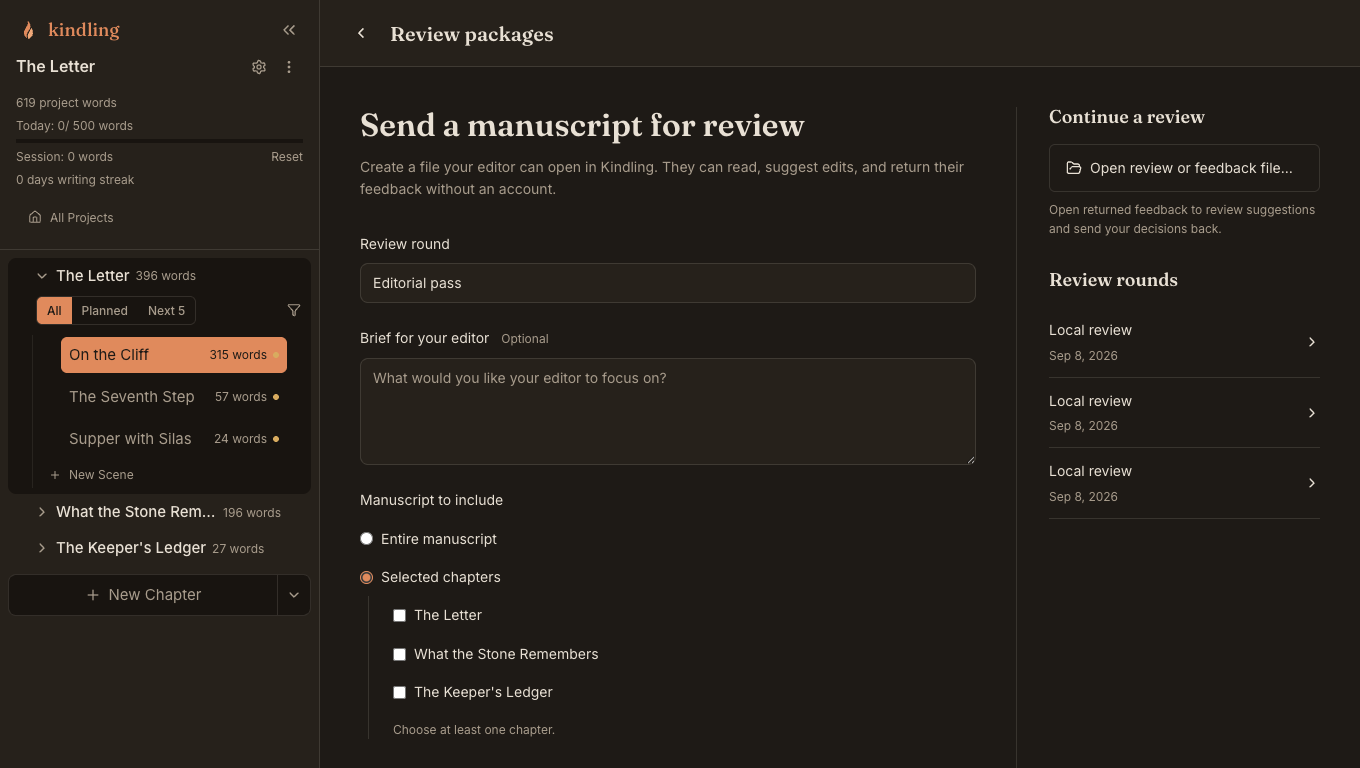
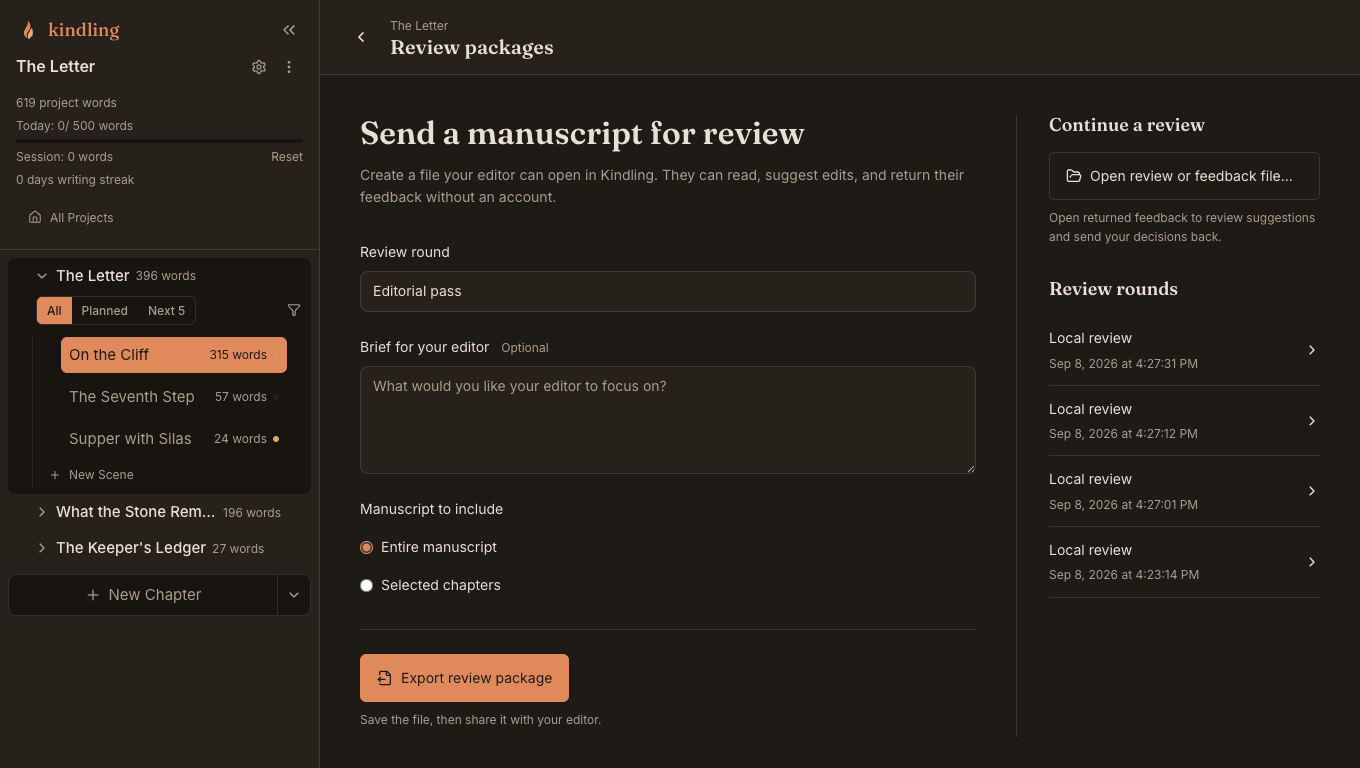
fix(editorial): preserve revision context when leaving package setup

diff --git a/src/lib/components/EditorialWorkspace.svelte b/src/lib/components/EditorialWorkspace.svelte
@@ -94,6 +94,10 @@
   let exportScope = $state("all");
   let menuPosition = $state<{ x: number; y: number } | null>(null);
   let menuTrigger = $state<HTMLElement>();
+  let packageReturn = $state<{
+    screen: "review" | "feedback";
+    view: ReturnType<NonNullable<typeof prose>["captureView"]> | undefined;
+  } | null>(null);
   const manuscriptMenu = $derived<MenuItem[]>([
     ...(local
       ? [
@@ -401,6 +405,7 @@
       const current = await invoke<EditorialSource[]>("editorial_sources", { projectId: id });
       const reviews = await invoke<SceneReview[]>("get_project_scene_reviews", { projectId: id });
       local = true;
+      packageReturn = null;
       projectId = id;
       round = data.round;
       focusedScene = sceneId;
@@ -634,6 +639,7 @@
   export async function closeWorkspace() {
     menuPosition = null;
     await flush();
+    packageReturn = null;
     active = false;
     showHistory = false;
   }
@@ -705,6 +711,18 @@
       /* Keep all local work visible and recoverable. */
     }
   }
+  async function back() {
+    if (screen === "export" && packageReturn) {
+      const previous = packageReturn;
+      await action(async () => {
+        packageReturn = null;
+        screen = previous.screen;
+        await tick();
+        if (showSearch) prose?.find(search, searchIndex);
+        if (previous.view) prose?.restoreView(previous.view);
+      });
+    } else await close();
+  }
   async function action(work: () => Promise<void>) {
     if (busy) return false;
     busy = true;
@@ -768,6 +786,7 @@
       }
       // Commit workspace state only after the complete incoming/recovered review validates.
       local = false;
+      packageReturn = null;
       sceneReviews = [];
       showComment = false;
       search = "";
@@ -801,15 +820,26 @@
     await action(async () => {
       await flush();
       await prepareWriting();
-      projectId = id;
-      [exportSources, rounds] = await Promise.all([
+      const previous =
+        active && local && projectId === id
+          ? screen === "review" || screen === "feedback"
+            ? { screen, view: prose?.captureView() }
+            : packageReturn
+          : null;
+      const [nextSources, nextRounds] = await Promise.all([
         invoke<EditorialSource[]>("editorial_sources", { projectId: id }),
         invoke<EditorialRound[]>("list_editorial_rounds", { projectId: id }),
       ]);
-      saves = null;
-      session = null;
-      feedback = null;
-      round = null;
+      projectId = id;
+      exportSources = nextSources;
+      rounds = nextRounds;
+      packageReturn = previous;
+      if (!previous) {
+        saves = null;
+        session = null;
+        feedback = null;
+        round = null;
+      }
       screen = "export";
       selectedChapters = [];
       exportScope = "all";
@@ -1044,6 +1074,7 @@
       const view = prose?.captureView();
       const previous = feedback ? manuscript(feedback.sources) : null;
       feedback = await invoke<EditorialFeedback>("get_editorial_feedback", { roundId: id });
+      packageReturn = null;
       round = feedback.round;
       session = null;
       saves = null;
@@ -1165,10 +1196,14 @@
     <div class="heading">
       <button
         class="icon"
-        aria-label={local ? "Return to writing" : "Close review"}
-        title={local ? "Return to writing" : "Close review"}
+        aria-label={packageReturn
+          ? "Return to revisions"
+          : local
+            ? "Return to writing"
+            : "Close review"}
+        title={packageReturn ? "Return to revisions" : local ? "Return to writing" : "Close review"}
         disabled={busy}
-        onclick={close}><ChevronLeft size={18} /></button
+        onclick={back}><ChevronLeft size={18} /></button
       >
       <div>
         <span class="eyebrow">{local ? round?.title : "kindling"}</span>
@@ -1335,10 +1370,13 @@
                   disabled={busy}
                   onclick={() => openRound(item.id)}
                   ><span>{item.name}</span><time datetime={item.created_at}
-                    >{new Date(item.created_at).toLocaleDateString(undefined, {
+                    >{new Date(item.created_at).toLocaleString(undefined, {
                       month: "short",
                       day: "numeric",
                       year: "numeric",
+                      hour: "numeric",
+                      minute: "2-digit",
+                      second: "2-digit",
                     })}</time
                   ><ChevronRight size={16} /></button
                 >
@@ -1661,6 +1699,13 @@
   }
   .workspace-actions select {
     width: auto;
+  }
+  .workspace-actions :global([data-testid="context-menu"]) {
+    width: 22rem;
+    max-width: calc(100vw - var(--space-s));
+  }
+  .workspace-actions :global([data-testid="context-menu"] svg) {
+    flex-shrink: 0;
   }
   .compact-select {
     display: inline-grid;

diff --git a/src/lib/components/EditorialWorkspace.test.ts b/src/lib/components/EditorialWorkspace.test.ts
@@ -1024,6 +1024,90 @@ describe("editorial workspace", () => {
     expect(localStorage.getItem("kindling.editorial.recovery.round")).toContain("Rowan");
   });
 
+  it.each(["feedback", "review"] as const)(
+    "returns from packages to the same %s mode and manuscript position",
+    async (mode) => {
+      const view = render(EditorialWorkspace, { prepareWriting, onManuscriptChanged });
+      await view.component.openLocal("project", "s");
+      if (mode === "review") {
+        await fireEvent.change(view.getByLabelText("Editor mode"), { target: { value: mode } });
+        await waitFor(() => expect(editor().isEditable).toBe(true));
+        editor().commands.insertContent("Revised ");
+      }
+      await fireEvent.change(view.getByLabelText("Show feedback"), { target: { value: "all" } });
+      editor().commands.setTextSelection({ from: 9, to: 15 });
+      const text = editor().getText();
+      document.querySelector<HTMLElement>(".manuscript-column")!.scrollTop = 123;
+      await fireEvent.click(view.getByLabelText("Manuscript actions"));
+      await fireEvent.click(view.getByRole("menuitem", { name: "Review packages and rounds…" }));
+      await waitFor(() =>
+        expect(view.getByRole("button", { name: "Return to revisions" })).toBeTruthy()
+      );
+      expect(document.querySelector(".editorial-prose")).toBeNull();
+      // Reopening package setup through the application menu preserves its origin too.
+      await view.component.openProject("project");
+      if (mode === "review") {
+        const original = vi.mocked(invoke).getMockImplementation()!;
+        vi.mocked(invoke).mockImplementation(async (cmd, args) => {
+          if (cmd === "get_editorial_feedback") throw new Error("Cannot open this round");
+          return original(cmd, args);
+        });
+        await fireEvent.click(view.getByRole("button", { name: "First review" }));
+        await waitFor(() =>
+          expect(view.getByRole("alert").textContent).toContain("Cannot open this round")
+        );
+      } else {
+        vi.mocked(save).mockResolvedValue("/round.kindling-review");
+        await fireEvent.click(view.getByRole("button", { name: "Export review package" }));
+        await waitFor(() => expect(view.getByText(/Review package saved to/)).toBeTruthy());
+      }
+      await fireEvent.click(view.getByRole("button", { name: "Return to revisions" }));
+      await waitFor(() => expect(view.getByLabelText("Editor mode")).toBeTruthy());
+      expect(view.queryByRole("alert")).toBeNull();
+      expect(view.queryByText(/Review package saved to/)).toBeNull();
+      expect(view.component.isLocal()).toBe(true);
+      expect((view.getByLabelText("Editor mode") as HTMLSelectElement).value).toBe(mode);
+      expect((view.getByLabelText("Show feedback") as HTMLSelectElement).value).toBe("all");
+      expect(editor().getText()).toBe(text);
+      expect(editor().state.selection.from).toBe(9);
+      expect(editor().state.selection.to).toBe(15);
+      expect(document.querySelector<HTMLElement>(".manuscript-column")!.scrollTop).toBe(123);
+      await view.component.closeWorkspace();
+      await view.component.openProject("project");
+      expect(view.queryByRole("button", { name: "Return to revisions" })).toBeNull();
+      expect(view.component.isLocal()).toBe(true);
+      await fireEvent.click(view.getByRole("button", { name: "Return to writing" }));
+      await waitFor(() => expect(view.component.isOpen()).toBe(false));
+    }
+  );
+
+  it("shows local date and time including seconds for review rounds", async () => {
+    const dates = ["2026-09-08T12:30:45Z", "2026-09-08T12:30:15Z"];
+    const original = vi.mocked(invoke).getMockImplementation()!;
+    vi.mocked(invoke).mockImplementation(async (cmd, args) =>
+      cmd === "list_editorial_rounds"
+        ? dates.map((created_at, i) => ({ ...round, id: `round-${i}`, created_at }))
+        : original(cmd, args)
+    );
+    const view = render(EditorialWorkspace, { prepareWriting, onManuscriptChanged });
+    await view.component.openProject("project");
+    const times = Array.from(document.querySelectorAll(".round-link time"));
+    expect(times.map((e) => e.getAttribute("datetime"))).toEqual(dates);
+    expect(times.map((e) => e.textContent)).toEqual(
+      dates.map((date) =>
+        new Date(date).toLocaleString(undefined, {
+          month: "short",
+          day: "numeric",
+          year: "numeric",
+          hour: "numeric",
+          minute: "2-digit",
+          second: "2-digit",
+        })
+      )
+    );
+    expect(times[0].textContent).not.toBe(times[1].textContent);
+  });
+
   it("exports scoped review rounds and opens their saved feedback", async () => {
     const view = render(EditorialWorkspace, { prepareWriting, onManuscriptChanged });
     await view.component.openProject("project");

diff --git a/qa/editorial/acceptance.md b/qa/editorial/acceptance.md
@@ -291,3 +291,34 @@ test exceeded its 20-second timeout (24.8 seconds under full-suite contention).
 That test passed in isolation in 4.97 seconds. The retry uses Vitest's supported
 `VITEST_MAX_WORKERS=1` setting through the normal push hook; assertions, timeouts,
 and hook checks are unchanged.
+
+## Package return navigation and round timestamps
+
+Follow-up base: `7e79af8d61ae96e887fd28a0b651adfd1ae2c476`.
+
+| Requested improvement                 | Implementation evidence                                                                                                     | Validation                                                                                                                                              | Gap  |
+| ------------------------------------- | --------------------------------------------------------------------------------------------------------------------------- | ------------------------------------------------------------------------------------------------------------------------------------------------------- | ---- |
+| Back returns to originating revisions | Package setup retains active local mode, review/save state and captured manuscript view; direct opens retain close behavior | Reviewing/Suggesting roundtrip tests include pending edits, filter, cursor, scroll, repeated setup and close/reopen; native Reviewing returned to 750px | None |
+| Readable manuscript menu              | Workspace-scoped 22rem width with viewport cap; icons do not shrink; shared menu unchanged                                  | Native computed 352px width and 40px single-line rows; light/dark browser-rendered menu details                                                         | None |
+| Distinct same-day rounds              | Localized date and time including seconds; existing newest-first order retained                                             | Timestamp precision regression; native rounds showed 4:27:31 PM, 4:27:12 PM and 4:27:01 PM on the same day                                              | None |
+
+All 37 workspace tests and `check:all` passed with the existing warnings.
+Production frontend build passed with the existing large-chunk warning.
+`package-setup-light.png` and `package-setup-dark.png` now include timestamps;
+`manuscript-menu-light.png` and `manuscript-menu-dark.png` show the wider menu.
+These are browser renderings of captured native DOM; the menu detail is positioned
+inside the browser viewport for the crop. The native webview was hidden during
+inspection, so its animation-frame viewport adjustment was not a runtime visual
+check. Window size and theme were restored; no manuscript data was changed.
+
+Review-agent's final result: **No findings**. Its review covered package return
+state, save-queue lifetime, failure paths, closing/replacement, menu scope and
+timestamp formatting.
+
+Claude high-effort session `bf6565dc-e36b-47b8-80e1-024f355a3ba3` identified
+package messages surviving Back and an unrelated change to local sidebar state
+on direct opens. Back now uses the shared action lifecycle to clear messages;
+the sidebar-state change was removed. Roundtrip tests cover both a package export
+notice and a failed round-open alert, plus direct reopening after local review.
+Review-agent rechecked these fixes and again returned **No findings**.
+Claude's final focused follow-up also returned **No findings**.

diff --git a/docs/editorial-review.md b/docs/editorial-review.md
@@ -12,6 +12,10 @@ manuscript** is selected by default. To send part of the manuscript, choose
 **Selected chapters** and check at least one chapter. Past rounds and the action
 for opening returned feedback appear beside the package form.
 
+When you open package setup from revisions, Back returns to the same review or
+suggesting mode and manuscript position. Review rounds show their creation date
+and local time, including seconds, so rounds created on the same day are distinct.
+
 **Export review package** creates a `.kindling-review` file. It contains the
 active prose in manuscript order, including scenes written using beats. Your
 original manuscript version is retained locally for this review round. You can
